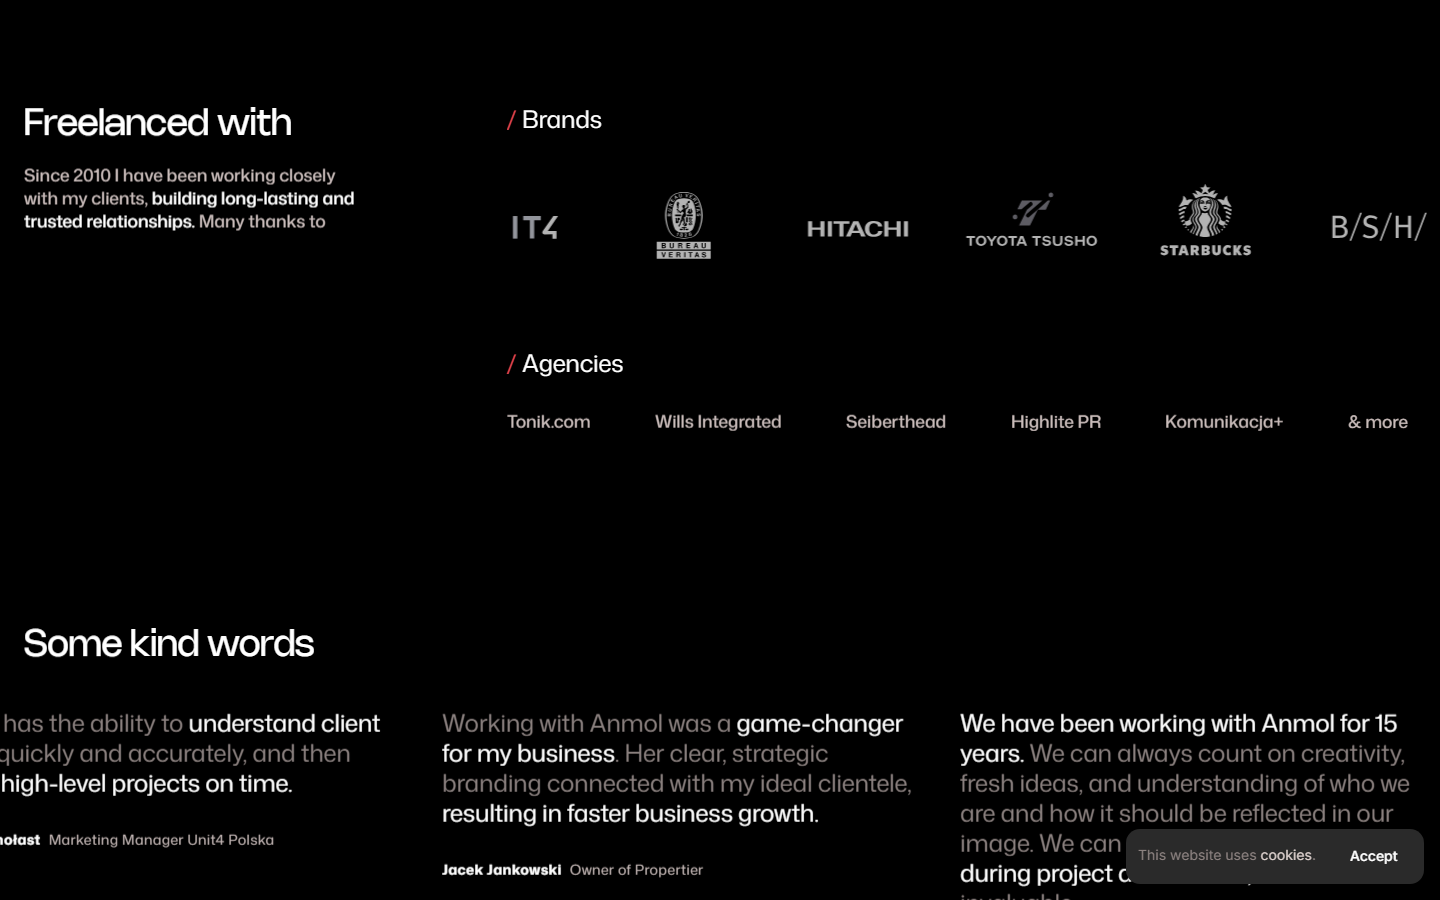
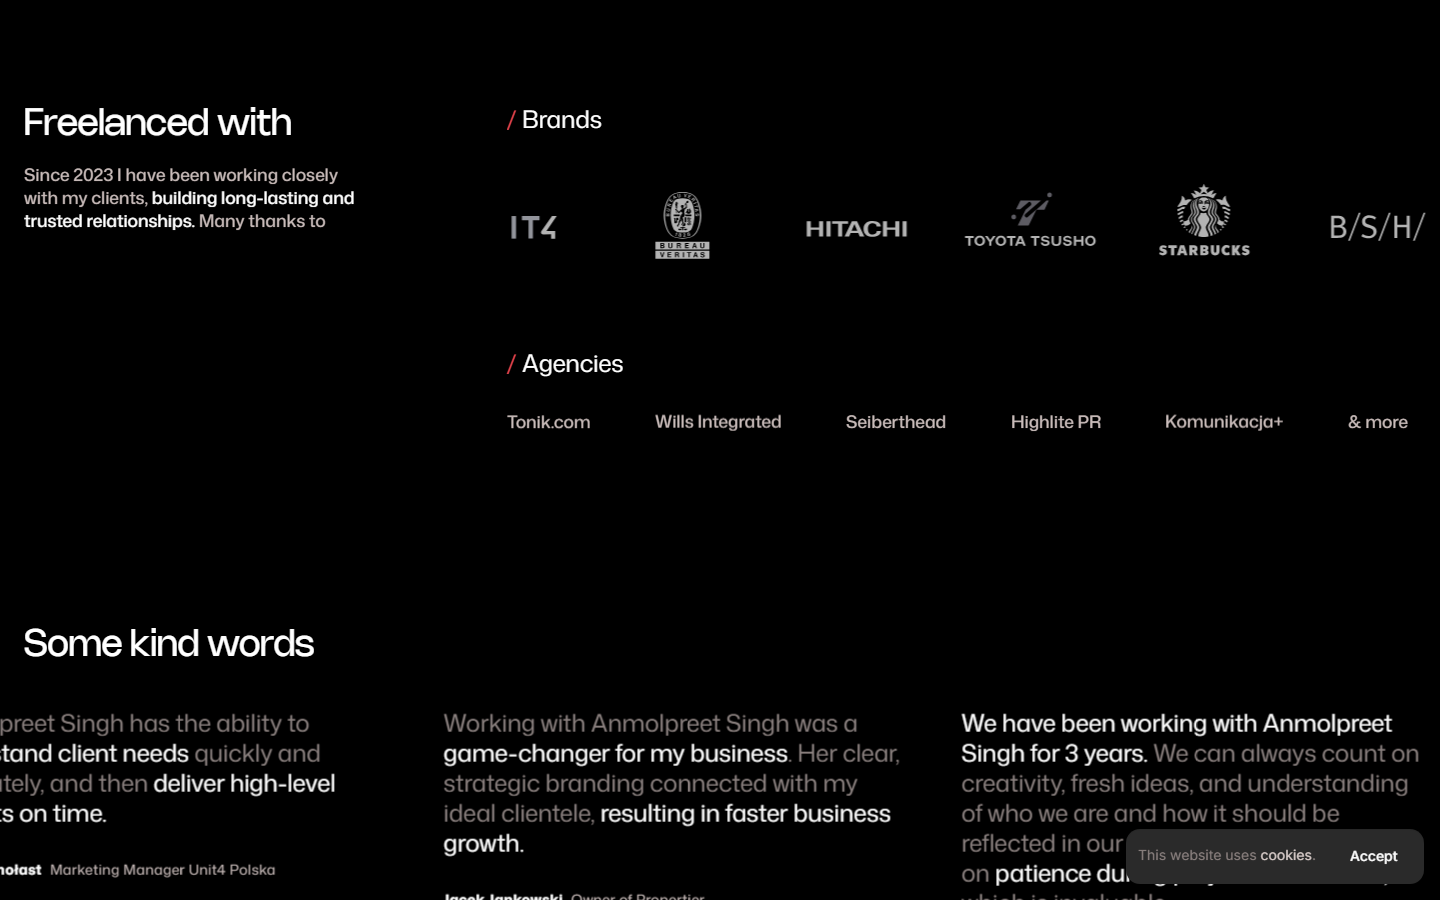
feat: rebrand to Anmolpreet Singh, video editor
Wordmark and title now read "Anmolpreet Singh / Video Editor". The bio
card is rewritten for a video editor with 3 years of experience, the
"Who is the designer?" card becomes "Who is the editor?", and the last
portrait of the original owner is replaced with a palette gradient.

Also recolors the inline styles the Framer bundle re-injects on render,
which were leaving purple headlines behind, and neutralizes the inherited
LinkedIn link.

diff --git a/index.html b/index.html
@@ -14,7 +14,7 @@
 
 	<meta name="generator" content="Framer 69e7cf7">
 
-	<title>Anmol | Editor Portfolio</title>
+	<title>Anmolpreet Singh | Video Editor</title>
 
     <meta name="description" content="Building brands ready for tommorow // brand strategy, brand design, web design, no-code development.">
 
@@ -30,7 +30,7 @@
 
     <meta property="og:type" content="website">
 
-    <meta property="og:title" content="Anmol | Editor Portfolio">
+    <meta property="og:title" content="Anmolpreet Singh | Video Editor">
 
     <meta property="og:description" content="Building brands ready for tommorow // brand strategy, brand design, web design, no-code development.">
 
@@ -40,7 +40,7 @@
 
     <meta name="twitter:card" content="summary_large_image">
 
-    <meta name="twitter:title" content="Anmol | Editor Portfolio">
+    <meta name="twitter:title" content="Anmolpreet Singh | Video Editor">
 
     <meta name="twitter:description" content="Building brands ready for tommorow // brand strategy, brand design, web design, no-code development.">
 
@@ -903,11 +903,11 @@
   white-space:nowrap;
 }
 [data-framer-name="Logo"]::before{
-  content:"Anmol"; top:1px;
-  font-weight:800; font-size:15px; line-height:17px; letter-spacing:.01em;
+  content:"Anmolpreet Singh"; top:1px;
+  font-weight:800; font-size:13.5px; line-height:16px; letter-spacing:.01em;
 }
 [data-framer-name="Logo"]::after{
-  content:"Editor Portfolio"; top:19px;
+  content:"Video Editor"; top:18px;
   font-weight:600; font-size:9.5px; line-height:12px; letter-spacing:.16em;
   color:var(--anmol-red);
 }
@@ -956,6 +956,11 @@ img[src*="XTVEugPwvzlNYp700hZaD6wIU"],
 .framer-vpa0gm-container p{ white-space:nowrap!important; }
 /* inline mail link keeps the pill's own type styling */
 a.anmol-mail{ color:inherit!important; text-decoration:none!important; }
+/* Designer card portrait of the original owner */
+img[src*="8X2vzbBia6KdvsDhLXCFqhU20"]{ display:none!important; }
+[data-framer-name="Image"]:has(img[src*="8X2vzbBia6KdvsDhLXCFqhU20"]){
+  background:linear-gradient(155deg,var(--anmol-graphite) 0%,var(--anmol-mauve) 60%,var(--anmol-red) 100%)!important;
+}
 </style>
 </head>
 
@@ -1112,16 +1117,32 @@ for IdoSell Team</p></div></div></div></div></div></div></div></div></div></div>
   // so the rebrand and the phone row are re-applied after every render.
   var RULES=[
     [/Book a 30[-–\s]?min call with/gi,"Book a 30-min intro call"],
-    [/Magdalena\s*Fudali/gi,"Anmol"],
+    [/Magdalena\s*Fudali/gi,"Anmolpreet Singh"],
     [/hi@fudali\.studio/gi,"anmoltathger@gmail.com"],
     [/fudali\.studio/gi,"anmoltathger@gmail.com"],
-    [/Magdalena/gi,"Anmol"],
-    [/Magda/gi,"Anmol"],
-    [/Fudali/gi,"Anmol"],
+    [/Magdalena/gi,"Anmolpreet Singh"],
+    [/Magda/gi,"Anmolpreet Singh"],
+    [/Fudali/gi,"Anmolpreet Singh"],
     [/Wrocław,?\s*Poland/gi,"India"],
-    [/GMT\+1/gi,"IST"]
+    [/GMT\+1/gi,"IST"],
+    [/over 15 years/gi,"3 years"],
+    [/15 years/gi,"3 years"],
+    [/Since 2010/gi,"Since 2023"],
+    [/Who is the designer\?/gi,"Who is the editor?"],
+    [/brand and digital/gi,"video editing and motion"],
+    [/run my own studio/gi,"work as an independent editor"],
+    [/effective design solutions/gi,"editing that holds attention"],
+    [/design solutions/gi,"editing that holds attention"]
   ];
-  var DROP=/^(Magda|Magdalena|Magdalena Fudali|Anmol)$/i;
+  var DROP=/^(Magda|Magdalena|Magdalena Fudali|Anmol|Anmolpreet Singh)$/i;
+  var BIO=[
+    [/^design\.$/i,"graphics."],
+    [/^designer$/i,"editor"]
+  ];
+  function inBio(node){
+    var el=node.parentElement;
+    return !!(el&&el.closest&&el.closest('[data-framer-name^="Hi! My name is"]'));
+  }
   var SKIP={SCRIPT:1,STYLE:1,NOSCRIPT:1};
   function inBookingPill(node){
     var el=node.parentElement;
@@ -1133,10 +1154,44 @@ for IdoSell Team</p></div></div></div></div></div></div></div></div></div></div>
       if(n.parentNode&&SKIP[n.parentNode.nodeName]) continue;
       var t=n.nodeValue,o=t;
       if(DROP.test(t.trim())&&inBookingPill(n)){ t=""; }
-      else { for(var i=0;i<RULES.length;i++) t=t.replace(RULES[i][0],RULES[i][1]); }
+      else {
+        for(var i=0;i<RULES.length;i++) t=t.replace(RULES[i][0],RULES[i][1]);
+        if(inBio(n)) for(var j=0;j<BIO.length;j++) t=t.replace(BIO[j][0],BIO[j][1]);
+      }
       if(t!==o) n.nodeValue=t;
     }
-    if(document.title!=="Anmol | Editor Portfolio") document.title="Anmol | Editor Portfolio";
+    if(document.title!=="Anmolpreet Singh | Video Editor") document.title="Anmolpreet Singh | Video Editor";
+  }
+  // The bundle re-renders with the original purple inline styles
+  var COLORS={
+    "111,99,233":"224, 66, 74", "113,99,241":"237, 71, 74", "114,99,242":"237, 71, 74",
+    "132,129,248":"201, 127, 130", "145,136,236":"127, 145, 114", "77,61,217":"201, 75, 79",
+    "151,71,255":"237, 71, 74", "145,135,235":"127, 145, 114",
+    "59,48,163":"175, 93, 99", "60,48,163":"175, 93, 99",
+    "36,27,75":"53, 53, 53", "35,27,74":"53, 53, 53",
+    "224,227,255":"234, 222, 218", "209,211,221":"220, 208, 205",
+    "187,186,192":"201, 188, 186", "133,131,142":"140, 130, 128",
+    "114,227,161":"127, 145, 114", "222,47,47":"237, 71, 74", "0,153,255":"237, 71, 74"
+  };
+  var RGB=/rgba?\(\s*(\d{1,3})\s*,\s*(\d{1,3})\s*,\s*(\d{1,3})/g;
+  function recolor(str){
+    return str.replace(RGB,function(m,r,g,b){
+      var hit=COLORS[r+","+g+","+b];
+      return hit? m.slice(0,m.indexOf("(")+1)+hit : m;
+    });
+  }
+  function scrubColors(){
+    document.querySelectorAll('[style*="rgb"]').forEach(function(el){
+      var st=el.getAttribute("style");
+      var out=recolor(st);
+      if(out!==st) el.setAttribute("style",out);
+    });
+    document.querySelectorAll('[fill^="rgb"],[stop-color^="rgb"]').forEach(function(el){
+      ["fill","stop-color"].forEach(function(a){
+        var v=el.getAttribute(a);
+        if(v){ var o=recolor(v); if(o!==v) el.setAttribute(a,o); }
+      });
+    });
   }
   function build(){
     var row=document.createElement("div");
@@ -1167,9 +1222,9 @@ for IdoSell Team</p></div></div></div></div></div></div></div></div></div></div>
         img.alt="Anmol Editor Portfolio project";
     });
   }
-  // The Framer bundle re-injects the original booking link on every render
+  // The bundle re-injects the original booking and LinkedIn links on every render
   function scrubLinks(){
-    document.querySelectorAll('a[href*="calendar.google.com"]').forEach(function(a){
+    document.querySelectorAll('a[href*="calendar.google.com"],a[href*="linkedin.com"]').forEach(function(a){
       a.setAttribute("href","#");
       a.removeAttribute("target");
       a.removeAttribute("rel");
@@ -1215,7 +1270,7 @@ for IdoSell Team</p></div></div></div></div></div></div></div></div></div></div>
       a.setAttribute("rel","noopener");
     });
   }
-  function apply(){ scrub(document.body); scrubAlts(); scrubLinks(); wireCta(); wireMail(); mountPhones(); }
+  function apply(){ scrub(document.body); scrubAlts(); scrubLinks(); scrubColors(); wireCta(); wireMail(); mountPhones(); }
   var pending=null, obs=null;
   function schedule(){
     if(pending) return;

diff --git a/README.md b/README.md
@@ -1,6 +1,6 @@
-# Anmol Editor Portfolio
+# Anmolpreet Singh - Video Editor Portfolio
 
-Animated portfolio site for **Anmol Editor Portfolio**, plus the scraping pipeline used to build the original layout reference from [Fudali Studio](https://fudali.studio/?ref=killerportfolio).
+Animated portfolio site for **Anmolpreet Singh**, video editor, plus the scraping pipeline used to build the original layout reference from [Fudali Studio](https://fudali.studio/?ref=killerportfolio).
 
 ---
 
